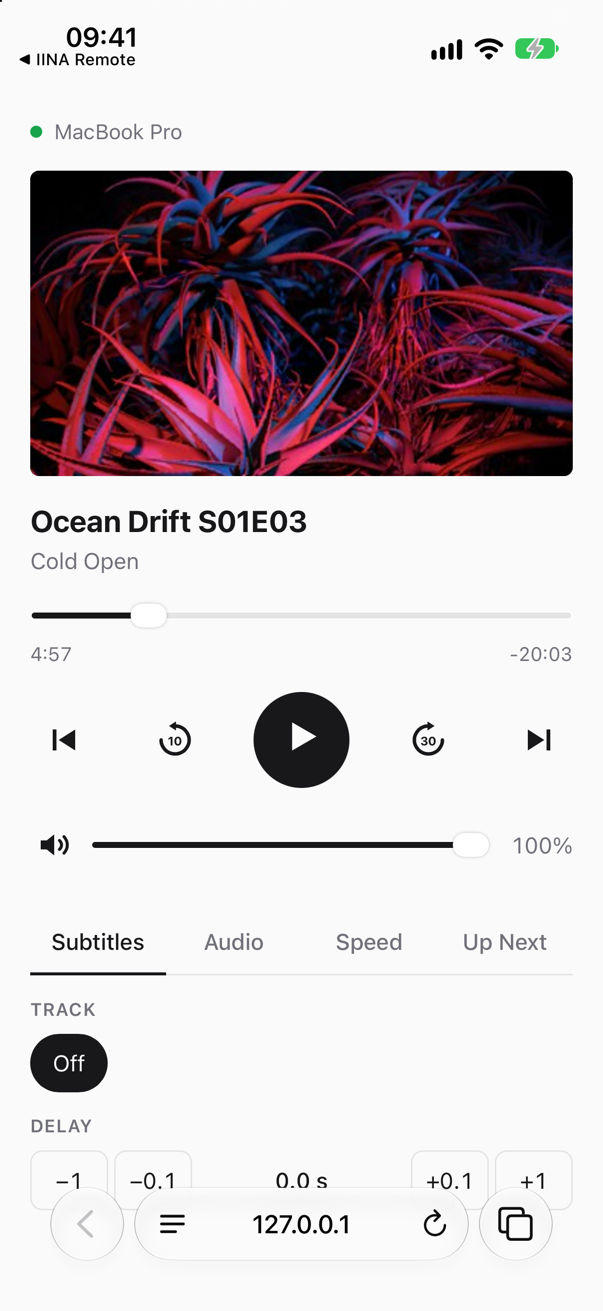
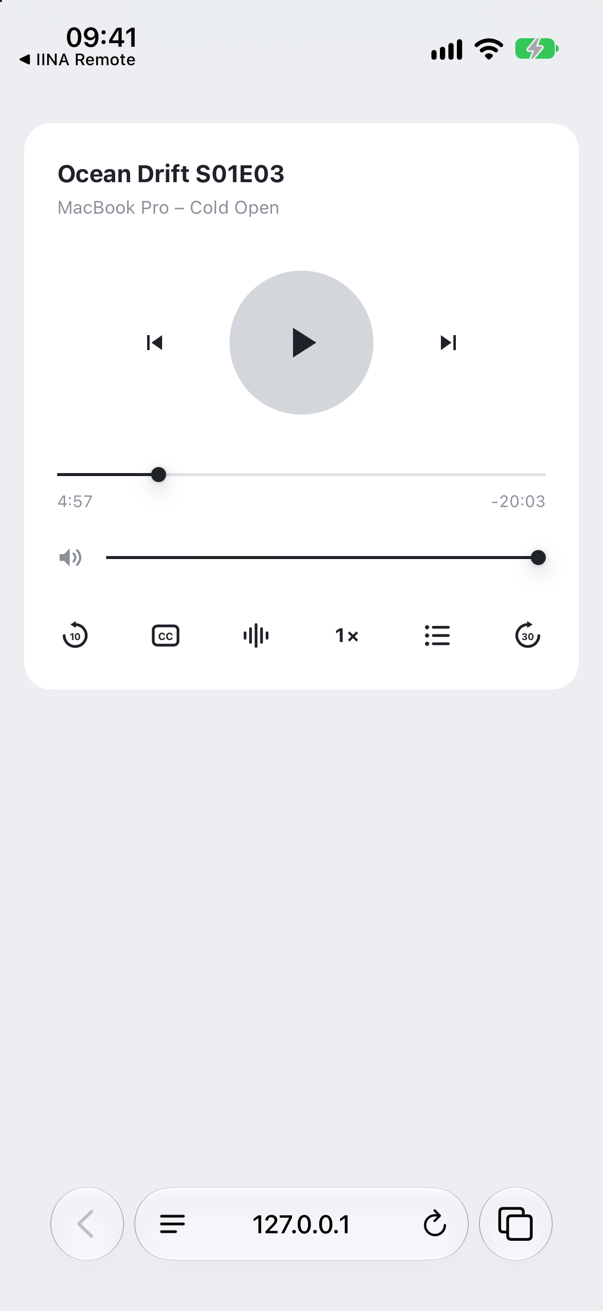
Restyle the browser remote as a minimal card

diff --git a/remote.html b/remote.html
@@ -10,119 +10,119 @@
 <link rel="icon" href="/icon.png">
 <title>IINA Remote</title>
 <style>
-  :root { --bg: #fafafa; --fg: #18181b; --dim: #71717a; --line: #e4e4e7; --soft: #f0f0f2; --live: #16a34a; --off: #dc2626; }
+  :root { --page: #eceef1; --card: #fff; --ink: #1f2228; --muted: #8b9099; --line: #dfe2e6; --well: #d3d6db; --well-ink: #1f2228; }
   @media (prefers-color-scheme: dark) {
-    :root { --bg: #131315; --fg: #f4f4f5; --dim: #a1a1aa; --line: #2e2e33; --soft: #1f1f23; }
+    :root { --page: #1b1d21; --card: #44474f; --ink: #fff; --muted: #b3b6bd; --line: #5c6069; --well: #fff; --well-ink: #1f2228; }
   }
   * { box-sizing: border-box; -webkit-tap-highlight-color: transparent; }
-  html { touch-action: manipulation; background: var(--bg); }
+  html { touch-action: manipulation; background: var(--page); }
   body {
-    margin: 0 auto; max-width: 520px; color: var(--fg); background: var(--bg);
-    font: 15px/1.4 system-ui, sans-serif; -webkit-user-select: none; user-select: none;
-    padding: max(16px, env(safe-area-inset-top)) 20px max(24px, env(safe-area-inset-bottom));
+    display: flex; flex-direction: column; gap: 16px; max-width: 420px; min-height: 100dvh; margin: 0 auto; color: var(--ink);
+    font: 14px/1.4 system-ui, -apple-system, "Segoe UI", Roboto, sans-serif; -webkit-user-select: none; user-select: none;
+    padding: max(20px, env(safe-area-inset-top)) 16px max(20px, env(safe-area-inset-bottom));
   }
-  header { display: flex; align-items: center; gap: 8px; color: var(--dim); font-size: 14px; margin-bottom: 16px; }
-  header::before { content: ""; width: 8px; height: 8px; border-radius: 50%; background: var(--live); }
-  body.offline header::before { background: var(--off); }
-  body.offline main { opacity: .4; pointer-events: none; }
-  #art { display: none; width: 100%; aspect-ratio: 16 / 9; object-fit: contain; background: #000; border-radius: 6px; margin-bottom: 16px; }
-  body.art #art { display: block; }
-  h1 { font-size: 20px; margin: 0; overflow: hidden; text-overflow: ellipsis; white-space: nowrap; }
-  #subtitle { margin: 2px 0 0; color: var(--dim); min-height: 1.4em; overflow: hidden; text-overflow: ellipsis; white-space: nowrap; }
-
-  input[type=range] { width: 100%; margin: 0; accent-color: var(--fg); height: 24px; }
-  #position { margin-top: 14px; }
-  .times { display: flex; justify-content: space-between; color: var(--dim); font-size: 13px; font-variant-numeric: tabular-nums; }
+  .card { background: var(--card); border-radius: 18px; padding: 22px; }
+  body.offline .player { opacity: .5; pointer-events: none; }
+  h1 { font-size: 16px; font-weight: 700; margin: 0; overflow: hidden; text-overflow: ellipsis; white-space: nowrap; }
+  #subtitle { font-size: 12px; color: var(--muted); margin: 3px 0 0; overflow: hidden; text-overflow: ellipsis; white-space: nowrap; }
 
   button { font: inherit; color: inherit; background: none; border: 0; padding: 0; cursor: pointer; }
   button:disabled { opacity: .3; cursor: default; }
-  .icon { display: grid; place-items: center; width: 44px; height: 44px; border-radius: 8px; }
-  .icon:hover:not(:disabled) { background: var(--soft); }
-  .icon:active:not(:disabled) { background: var(--line); }
-  svg { width: 24px; height: 24px; fill: currentColor; }
-  .stroke { fill: none; stroke: currentColor; stroke-width: 2; stroke-linecap: round; stroke-linejoin: round; }
-  .transport { display: flex; justify-content: space-between; align-items: center; margin: 16px 0; }
-  .transport text { font: 700 7px system-ui, sans-serif; text-anchor: middle; }
-  .transport .skip svg { width: 28px; height: 28px; }
-  #play { width: 64px; height: 64px; border-radius: 50%; background: var(--fg); color: var(--bg); }
-  #play:hover { background: var(--fg); opacity: .85; }
-  #play svg { width: 30px; height: 30px; }
-  .volume { display: flex; align-items: center; gap: 8px; }
-  #volumeValue { min-width: 48px; text-align: right; color: var(--dim); font-variant-numeric: tabular-nums; }
+  :focus-visible { outline: 2px solid var(--ink); outline-offset: 2px; }
+  svg { display: block; width: 22px; height: 22px; fill: currentColor; }
+  .line { fill: none; stroke: currentColor; stroke-width: 2; stroke-linecap: round; stroke-linejoin: round; }
+  svg text { font: 700 7px system-ui, sans-serif; text-anchor: middle; dominant-baseline: central; }
+  .tap { display: grid; place-items: center; width: 44px; height: 44px; border-radius: 50%; }
+  .tap:active:not(:disabled) { background: var(--line); }
 
-  nav { display: flex; border-bottom: 1px solid var(--line); margin-top: 20px; }
-  nav button { flex: 1; padding: 12px 0 10px; color: var(--dim); font-weight: 500; border-bottom: 2px solid transparent; margin-bottom: -1px; }
-  nav button.on { color: var(--fg); border-color: var(--fg); }
-  .panel { padding-top: 14px; }
-  .panel[hidden] { display: none; }
-  h2 { font-size: 12px; font-weight: 600; letter-spacing: .05em; text-transform: uppercase; color: var(--dim); margin: 14px 0 8px; }
-  h2:first-child { margin-top: 0; }
+  .stage { display: flex; justify-content: center; align-items: center; gap: 28px; margin: 34px 0 30px; }
+  .stage svg { width: 20px; height: 20px; }
+  #play { width: 96px; height: 96px; border-radius: 50%; background: var(--well); color: var(--well-ink); display: grid; place-items: center; transition: transform .15s; }
+  #play:active { transform: scale(.94); }
+  #play svg { width: 34px; height: 34px; }
+
+  input[type=range] { -webkit-appearance: none; appearance: none; display: block; width: 100%; height: 20px; margin: 0; background: none; --p: 0%; cursor: pointer; }
+  input[type=range]::-webkit-slider-runnable-track { height: 2px; background: linear-gradient(90deg, var(--ink) var(--p), var(--line) var(--p)); }
+  input[type=range]::-moz-range-track { height: 2px; background: linear-gradient(90deg, var(--ink) var(--p), var(--line) var(--p)); }
+  input[type=range]::-webkit-slider-thumb { -webkit-appearance: none; width: 10px; height: 10px; margin-top: -4px; border-radius: 50%; background: var(--ink); }
+  input[type=range]::-moz-range-thumb { width: 10px; height: 10px; border: 0; border-radius: 50%; background: var(--ink); }
+  .times { display: flex; justify-content: space-between; font-size: 11px; color: var(--muted); font-variant-numeric: tabular-nums; }
+
+  .tools { display: flex; justify-content: space-between; align-items: center; margin: 14px -10px -8px; }
+  .tools .tap.on { background: var(--ink); color: var(--card); }
+  #speedButton { font-size: 13px; font-weight: 700; font-variant-numeric: tabular-nums; }
+  .volume { display: flex; align-items: center; gap: 10px; margin-top: 14px; color: var(--muted); }
+  .volume .tap { width: 32px; height: 32px; margin-left: -6px; }
+  .volume svg { width: 18px; height: 18px; }
+
+  h2 { font-size: 14px; font-weight: 700; margin: 0 0 12px; }
+  h3 { font-size: 12px; font-weight: 400; color: var(--muted); margin: 16px 0 8px; }
   .chips { display: flex; flex-wrap: wrap; gap: 8px; }
-  .chips button { padding: 8px 14px; border: 1px solid var(--line); border-radius: 999px; font-variant-numeric: tabular-nums; }
-  .chips button:hover { background: var(--soft); }
-  .chips button.on { background: var(--fg); border-color: var(--fg); color: var(--bg); }
-  .stepper { display: flex; align-items: center; gap: 4px; }
-  .stepper button { border: 1px solid var(--line); border-radius: 8px; min-width: 52px; height: 40px; font-variant-numeric: tabular-nums; }
-  .stepper button:hover { background: var(--soft); }
-  .stepper span { flex: 1; text-align: center; font-variant-numeric: tabular-nums; font-weight: 500; }
-  .list { display: flex; flex-direction: column; }
-  .list button { display: flex; align-items: center; gap: 12px; min-height: 44px; padding: 6px 8px; border-radius: 6px; text-align: left; }
-  .list button:hover { background: var(--soft); }
-  .list button.on { font-weight: 600; }
-  .list .lead { width: 22px; color: var(--dim); font-variant-numeric: tabular-nums; font-weight: 400; }
-  .list button.on .lead { color: var(--fg); }
+  .chips button { min-height: 34px; padding: 0 14px; border-radius: 99px; border: 1px solid var(--line); font-variant-numeric: tabular-nums; }
+  .chips button.on { background: var(--ink); border-color: var(--ink); color: var(--card); font-weight: 600; }
+  .stepper { display: flex; align-items: center; justify-content: space-between; }
+  .stepper button { min-width: 48px; height: 34px; border-radius: 99px; border: 1px solid var(--line); font-variant-numeric: tabular-nums; }
+  .stepper button:active { background: var(--line); }
+  .stepper span { font-weight: 700; font-variant-numeric: tabular-nums; }
+  .list button { display: flex; align-items: center; gap: 12px; width: 100%; min-height: 42px; text-align: left; border-top: 1px solid var(--line); }
+  .list button:first-child { border-top: 0; }
+  .list .lead { width: 18px; color: var(--muted); font-size: 12px; font-variant-numeric: tabular-nums; }
   .list .name { flex: 1; overflow: hidden; text-overflow: ellipsis; white-space: nowrap; }
-  .list .meta { color: var(--dim); font-variant-numeric: tabular-nums; font-weight: 400; }
-  .list progress { width: 56px; height: 4px; accent-color: var(--fg); }
-  .empty { color: var(--dim); }
+  .list .meta { color: var(--muted); font-size: 12px; font-variant-numeric: tabular-nums; }
+  .list button.on { font-weight: 700; }
+  .list button.on .lead { color: var(--ink); }
+  .list progress { width: 48px; height: 3px; accent-color: var(--ink); }
+  .empty { color: var(--muted); margin: 0; }
   [hidden] { display: none !important; }
 </style>
 </head>
 <body class="offline">
-<header id="mac">Connecting…</header>
-<main>
-  <img id="art" alt="">
-  <h1 id="title">Nothing playing</h1>
+<section class="card player">
+  <h1 id="title">Connecting…</h1>
   <p id="subtitle"></p>
   <div id="controls">
+    <div class="stage">
+      <button class="tap track" data-cmd="playlist-prev" aria-label="Previous"><svg viewBox="0 0 24 24"><path d="M6 6h2v12H6zM9.5 12 18 18V6z"/></svg></button>
+      <button id="play" aria-label="Play or pause"><svg viewBox="0 0 24 24"><path id="playIcon" d="M8 5v14l11-7z"/></svg></button>
+      <button class="tap track" data-cmd="playlist-next" aria-label="Next"><svg viewBox="0 0 24 24"><path d="M16 6h2v12h-2zM6 18l8.5-6L6 6z"/></svg></button>
+    </div>
     <input id="position" type="range" min="0" max="1" step="1" value="0" aria-label="Position">
     <div class="times"><span id="elapsed">0:00</span><span id="remaining">-0:00</span></div>
-    <div class="transport">
-      <button class="icon track" data-cmd="playlist-prev" aria-label="Previous"><svg viewBox="0 0 24 24"><path d="M5 5h2.5v14H5zM20 5v14L9 12z"/></svg></button>
-      <button class="icon skip" data-seek="-10" aria-label="Back 10 seconds"><svg viewBox="0 0 24 24"><path class="stroke" d="M12 4a8 8 0 1 1-8 8"/><path d="M8.5 4l4-2.6v5.2z"/><text x="12" y="15">10</text></svg></button>
-      <button id="play" aria-label="Play or pause"><svg viewBox="0 0 24 24"><path id="playIcon" d="M7 4.5l13 7.5-13 7.5z"/></svg></button>
-      <button class="icon skip" data-seek="30" aria-label="Forward 30 seconds"><svg viewBox="0 0 24 24"><path class="stroke" d="M12 4a8 8 0 1 0 8 8"/><path d="M15.5 4l-4-2.6v5.2z"/><text x="12" y="15">30</text></svg></button>
-      <button class="icon track" data-cmd="playlist-next" aria-label="Next"><svg viewBox="0 0 24 24"><path d="M16.5 5H19v14h-2.5zM4 5v14l11-7z"/></svg></button>
-    </div>
     <div class="volume">
-      <button class="icon" id="mute" aria-label="Mute"><svg viewBox="0 0 24 24"><path d="M3 9v6h4l5 4V5L7 9z"/><path id="waves" class="stroke" d="M15.5 9a4 4 0 0 1 0 6M18.5 6.5a8 8 0 0 1 0 11"/><path id="slash" class="stroke" d="M15 9l6 6M21 9l-6 6"/></svg></button>
+      <button class="tap" id="mute" aria-label="Mute"><svg viewBox="0 0 24 24"><path d="M3 9v6h4l5 5V4L7 9z"/><path id="waves" class="line" d="M15.5 8.5a5 5 0 0 1 0 7M18.5 5.5a9 9 0 0 1 0 13"/><path id="slash" class="line" d="M16 9.5l5 5M21 9.5l-5 5"/></svg></button>
       <input id="volume" type="range" min="0" max="100" step="1" aria-label="Volume">
-      <span id="volumeValue"></span>
+    </div>
+    <div class="tools">
+      <button class="tap" data-seek="-10" aria-label="Back 10 seconds"><svg viewBox="0 0 24 24"><path class="line" d="M12 4a8 8 0 1 1-8 8"/><path d="M8.5 4l4-2.5v5z"/><text x="12" y="12.5">10</text></svg></button>
+      <button class="tap" data-panel="subtitles" aria-label="Subtitles"><svg viewBox="0 0 24 24"><rect class="line" x="3" y="5" width="18" height="14" rx="3"/><text x="12" y="12" style="font-size: 7.5px">CC</text></svg></button>
+      <button class="tap" data-panel="audio" aria-label="Audio"><svg viewBox="0 0 24 24"><path class="line" d="M4 10v4M8 7v10M12 4v16M16 7v10M20 10v4"/></svg></button>
+      <button class="tap" data-panel="speed" id="speedButton" aria-label="Speed">1×</button>
+      <button class="tap" data-panel="library" aria-label="Up next"><svg viewBox="0 0 24 24"><path class="line" d="M9 6h11M9 12h11M9 18h11"/><circle cx="4.5" cy="6" r="1.5"/><circle cx="4.5" cy="12" r="1.5"/><circle cx="4.5" cy="18" r="1.5"/></svg></button>
+      <button class="tap" data-seek="30" aria-label="Forward 30 seconds"><svg viewBox="0 0 24 24"><path class="line" d="M12 4a8 8 0 1 0 8 8"/><path d="M15.5 4l-4-2.5v5z"/><text x="12" y="12.5">30</text></svg></button>
     </div>
   </div>
+</section>
 
-  <nav>
-    <button data-tab="subtitles">Subtitles</button>
-    <button data-tab="audio">Audio</button>
-    <button data-tab="speed">Speed</button>
-    <button data-tab="library">Up Next</button>
-  </nav>
-  <section class="panel" id="subtitles">
-    <h2>Track</h2><div class="chips" id="sid"></div>
-    <h2>Delay</h2><div class="stepper" data-prop="sub-delay" data-key="subDelay"></div>
-  </section>
-  <section class="panel" id="audio">
-    <h2>Track</h2><div class="chips" id="aid"></div>
-    <h2>Delay</h2><div class="stepper" data-prop="audio-delay" data-key="audioDelay"></div>
-  </section>
-  <section class="panel" id="speed"><div class="chips" id="speeds"></div></section>
-  <section class="panel" id="library">
-    <div id="playlistGroup"><h2>Playlist</h2><div class="list" id="playlist"></div></div>
-    <div id="chaptersGroup"><h2>Chapters</h2><div class="list" id="chapters"></div></div>
-    <div id="recentGroup"><h2>Recent</h2><div class="list" id="recent"></div></div>
-    <p class="empty" id="nothing">Nothing up next.</p>
-  </section>
-</main>
+<section class="card panel" id="subtitles" hidden>
+  <h2>Subtitles</h2>
+  <div class="chips" id="sid"></div>
+  <h3>Delay</h3><div class="stepper" data-prop="sub-delay" data-key="subDelay"></div>
+</section>
+<section class="card panel" id="audio" hidden>
+  <h2>Audio</h2>
+  <div class="chips" id="aid"></div>
+  <h3>Delay</h3><div class="stepper" data-prop="audio-delay" data-key="audioDelay"></div>
+</section>
+<section class="card panel" id="speed" hidden>
+  <h2>Speed</h2>
+  <div class="chips" id="speeds"></div>
+</section>
+<section class="card panel" id="library" hidden>
+  <div id="playlistGroup"><h2>Playlist</h2><div class="list" id="playlist"></div></div>
+  <div id="chaptersGroup"><h3>Chapters</h3><div class="list" id="chapters"></div></div>
+  <div id="recentGroup"><h3>Recently played</h3><div class="list" id="recent"></div></div>
+  <p class="empty" id="nothing">No playlist, chapters or recent files yet.</p>
+</section>
 
 <script>
 const $ = (id) => document.getElementById(id);
@@ -130,7 +130,7 @@ const wsPort = location.hash.slice(1) || 8766;
 const url = `ws://${location.hostname}:${wsPort}`;
 const SPEEDS = [0.5, 0.75, 1, 1.25, 1.5, 2];
 const STEPS = [-1, -0.1, null, 0.1, 1];
-let socket, s = null, lib = null, dragging = null, frame = 0;
+let socket, s = null, lib = null, dragging = null;
 
 function connect() {
   socket = new WebSocket(url);
@@ -143,7 +143,8 @@ function connect() {
   };
   socket.onclose = () => {
     document.body.classList.add("offline");
-    $("mac").textContent = "Can’t reach IINA. Reconnecting…";
+    $("title").textContent = "Can’t reach IINA";
+    $("subtitle").textContent = "Reconnecting…";
     setTimeout(connect, 1500);
   };
 }
@@ -155,6 +156,11 @@ function clock(t) {
   t = Math.max(0, Math.floor(t || 0));
   const h = Math.floor(t / 3600), m = Math.floor(t / 60) % 60, sec = String(t % 60).padStart(2, "0");
   return h ? `${h}:${String(m).padStart(2, "0")}:${sec}` : `${m}:${sec}`;
+}
+
+function fill(range, value) {
+  range.value = value;
+  range.style.setProperty("--p", `${(100 * (range.value - range.min)) / (range.max - range.min || 1)}%`);
 }
 
 // Buttons are rebuilt only when their content changes, so taps aren't lost mid-render.
@@ -200,48 +206,32 @@ function renderLibrary(library) {
 
 function renderSubtitle() {
   const chapter = lib && lib.chapters[s.chapter];
-  const position = lib && lib.playlist.length > 1 && s.playlistPos >= 0 ? `${s.playlistPos + 1} of ${lib.playlist.length}` : "";
-  $("subtitle").textContent = chapter ? chapter.title || `Chapter ${s.chapter + 1}` : position;
-}
-
-function loadFrame() {
-  if (!s.frame) return document.body.classList.remove("art");
-  if (s.frame === frame) return;
-  frame = s.frame;
-  const image = new Image();
-  image.onload = () => {
-    if (frame !== s.frame) return;
-    $("art").src = image.src;
-    document.body.classList.add("art");
-  };
-  image.src = `/frame/${wsPort}.jpg?${frame}`;
+  $("subtitle").textContent = chapter ? `${s.host} – ${chapter.title || `Chapter ${s.chapter + 1}`}` : s.host || location.hostname;
 }
 
 const tracks = (type, current, off) => (off ? [{ id: "no", name: "Off", on: current === "no" }] : []).concat(
   s.tracks.filter((t) => t.type === type).map((t) => ({
-    id: String(t.id), name: [t.title, t.lang.toUpperCase()].filter(Boolean).join(" · ") || `Track ${t.id}`, on: String(t.id) === current,
+    id: String(t.id), name: [t.title, t.lang.toUpperCase()].filter(Boolean).join(", ") || `Track ${t.id}`, on: String(t.id) === current,
   })));
 
 function render(next) {
   const chapterChanged = !s || s.chapter !== next.chapter;
   s = next;
-  $("mac").textContent = s.host || location.hostname;
   $("title").textContent = s.title || "Nothing playing";
   $("controls").hidden = !s.title;
   renderSubtitle();
-  loadFrame();
-  $("playIcon").setAttribute("d", s.pause ? "M7 4.5l13 7.5-13 7.5z" : "M6 4h4v16H6zM14 4h4v16h-4z");
+  $("playIcon").setAttribute("d", s.pause ? "M8 5v14l11-7z" : "M6 5h4v14H6zM14 5h4v14h-4z");
   const position = $("position");
   position.max = Math.max(1, Math.floor(s.duration));
-  if (dragging !== position) position.value = s.time;
+  if (dragging !== position) fill(position, s.time);
   $("elapsed").textContent = clock(+position.value);
   $("remaining").textContent = "-" + clock(s.duration - position.value);
   const volume = $("volume");
   volume.max = s.volumeMax;
-  if (dragging !== volume) volume.value = s.volume;
-  $("volumeValue").textContent = s.mute ? "Muted" : `${Math.round(volume.value)}%`;
+  if (dragging !== volume) fill(volume, s.volume);
   $("waves").style.display = s.mute ? "none" : "";
   $("slash").style.display = s.mute ? "" : "none";
+  $("speedButton").textContent = `${s.speed}×`;
   buttons($("aid"), tracks("audio", s.aid), chip, (item) => set("aid", item.id));
   buttons($("sid"), tracks("sub", s.subVisible ? s.sid : "no", true), chip, (item) => {
     if (item.id !== "no") set("sid", item.id);
@@ -260,21 +250,18 @@ for (const stepper of document.querySelectorAll(".stepper")) {
     if (step === null) { stepper.append(document.createElement("span")); continue; }
     const b = document.createElement("button");
     b.textContent = `${step > 0 ? "+" : "−"}${Math.abs(step)}`;
-    b.setAttribute("aria-label", `${step > 0 ? "+" : "-"}${Math.abs(step)} seconds`);
+    b.setAttribute("aria-label", `${step > 0 ? "Later" : "Earlier"} by ${Math.abs(step)} seconds`);
     b.onclick = () => set(stepper.dataset.prop, Math.round(((s[stepper.dataset.key] || 0) + step) * 10) / 10);
     stepper.append(b);
   }
 }
 
-function showTab(name) {
-  document.querySelectorAll("nav button").forEach((b) => b.classList.toggle("on", b.dataset.tab === name));
+// The tool buttons open one panel at a time under the player; tapping the open one closes it.
+function showPanel(name) {
+  document.querySelectorAll("[data-panel]").forEach((b) => b.classList.toggle("on", b.dataset.panel === name));
   document.querySelectorAll(".panel").forEach((p) => (p.hidden = p.id !== name));
-  try { localStorage.setItem("tab", name); } catch {}
 }
-document.querySelectorAll("nav button").forEach((b) => (b.onclick = () => showTab(b.dataset.tab)));
-let saved = null;
-try { saved = localStorage.getItem("tab"); } catch {}
-showTab($(saved) ? saved : "subtitles");
+document.querySelectorAll("[data-panel]").forEach((b) => (b.onclick = () => showPanel(b.classList.contains("on") ? null : b.dataset.panel)));
 
 $("play").onclick = () => set("pause", !s.pause);
 $("mute").onclick = () => set("mute", !s.mute);
@@ -283,9 +270,9 @@ document.querySelectorAll("[data-seek]").forEach((b) => (b.onclick = () => seekB
 
 for (const [range, onInput, onCommit] of [
   [$("position"), (el) => ($("elapsed").textContent = clock(+el.value)), (el) => send({ cmd: "seek", args: [+el.value, "absolute"] })],
-  [$("volume"), (el) => { $("volumeValue").textContent = `${el.value}%`; set("volume", +el.value); }, () => {}],
+  [$("volume"), (el) => set("volume", +el.value), () => {}],
 ]) {
-  range.oninput = () => { dragging = range; onInput(range); };
+  range.oninput = () => { dragging = range; fill(range, range.value); onInput(range); };
   range.onchange = () => { onCommit(range); dragging = null; };
 }
 
